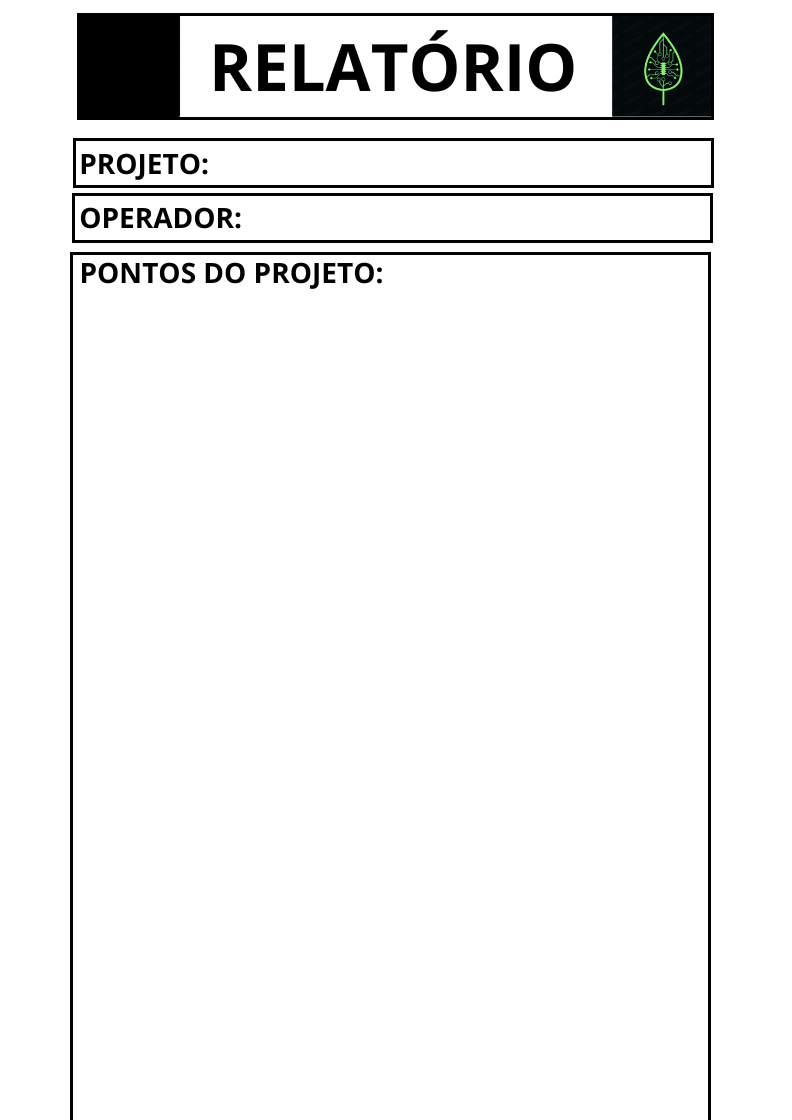
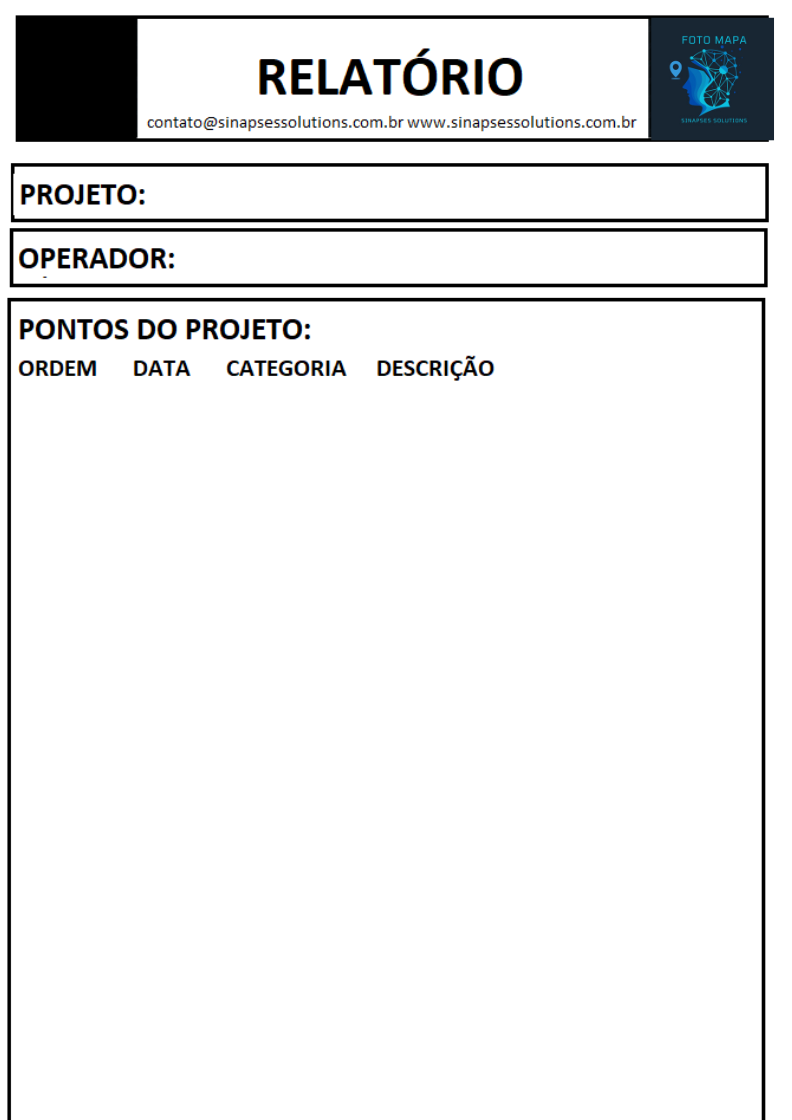
colocar pequeno e quase invisível na parte de baixo: Sinapses FotoMapa tire a opção do usuário escolher o projeto Adicionado contato na configurações Adicionar contato no relatório Adicionar cabeçalho no relatório Complemente a mensagem dizendo que pode levar mais tempo devido à quantidade de fotos

Changed region(s): [[0.0, 0.0, 1.0, 1.0]]

diff --git a/app/src/main/java/benicio/soluces/aplicativotestebencio/activity/AdicionarPontoActivity.java b/app/src/main/java/benicio/soluces/aplicativotestebencio/activity/AdicionarPontoActivity.java
@@ -1,6 +1,19 @@
 package benicio.soluces.aplicativotestebencio.activity;
 
 //salvar na pasta do programa
+
+import android.Manifest;
+import android.annotation.SuppressLint;
+import android.app.Dialog;
+import android.content.Intent;
+import android.content.pm.PackageManager;
+import android.location.Location;
+import android.os.Bundle;
+import android.view.MenuItem;
+import android.view.View;
+import android.widget.AdapterView;
+import android.widget.Toast;
+
 import androidx.annotation.NonNull;
 import androidx.annotation.Nullable;
 import androidx.appcompat.app.AlertDialog;
@@ -12,33 +25,11 @@ import androidx.recyclerview.widget.DividerItemDecoration;
 import androidx.recyclerview.widget.LinearLayoutManager;
 import androidx.recyclerview.widget.RecyclerView;
 
-import android.Manifest;
-import android.annotation.SuppressLint;
-import android.app.Dialog;
-import android.content.Context;
-import android.content.Intent;
-import android.content.SharedPreferences;
-import android.content.pm.PackageManager;
-import android.graphics.Bitmap;
-import android.graphics.BitmapFactory;
-import android.location.Location;
-import android.net.Uri;
-import android.os.Bundle;
-import android.provider.MediaStore;
-import android.util.Base64;
-import android.view.MenuItem;
-import android.view.View;
-import android.widget.AdapterView;
-import android.widget.ArrayAdapter;
-import android.widget.AutoCompleteTextView;
-import android.widget.Toast;
-
 import com.google.android.gms.location.FusedLocationProviderClient;
 import com.google.android.gms.location.LocationCallback;
 import com.google.android.gms.location.LocationRequest;
 import com.google.android.gms.location.LocationResult;
 import com.google.android.gms.location.LocationServices;
-import com.google.android.material.textfield.TextInputLayout;
 
 import java.text.SimpleDateFormat;
 import java.util.ArrayList;
@@ -47,18 +38,14 @@ import java.util.List;
 import java.util.Locale;
 
 import benicio.soluces.aplicativotestebencio.adapter.AdapterCategorias;
-import benicio.soluces.aplicativotestebencio.adapter.AdapterPontos;
+import benicio.soluces.aplicativotestebencio.adapter.AdapterFotos;
 import benicio.soluces.aplicativotestebencio.adapter.AdapterProjetos;
 import benicio.soluces.aplicativotestebencio.databinding.ActivityAdicionarPontoBinding;
-import benicio.soluces.aplicativotestebencio.databinding.ActivityMeusProjetosBinding;
 import benicio.soluces.aplicativotestebencio.databinding.LayoutRecyclerBinding;
 import benicio.soluces.aplicativotestebencio.model.CategoriaModel;
 import benicio.soluces.aplicativotestebencio.model.PontoModel;
-import benicio.soluces.aplicativotestebencio.R;
-import benicio.soluces.aplicativotestebencio.adapter.AdapterFotos;
 import benicio.soluces.aplicativotestebencio.model.ProjetoModel;
 import benicio.soluces.aplicativotestebencio.util.ImageUtils;
-import benicio.soluces.aplicativotestebencio.util.PontosUtils;
 import benicio.soluces.aplicativotestebencio.util.ProjetoUtils;
 import benicio.soluces.aplicativotestebencio.util.RecyclerItemClickListener;
 
@@ -82,12 +69,14 @@ public class AdicionarPontoActivity extends AppCompatActivity {
     private int positionPonto;
     private String idProjeto;
     private String nomeProjeto = "";
+    private String categoriaEscolhida = "";
+
     private ProjetoModel projetoModel;
 
     private RecyclerView recyclerCategoria;
 
-    private String categoriaEscolhida = "";
 
+    @SuppressLint("SetTextI18n")
     @Override
     protected void onCreate(Bundle savedInstanceState) {
         super.onCreate(savedInstanceState);
@@ -96,9 +85,9 @@ public class AdicionarPontoActivity extends AppCompatActivity {
 
         verProjetosDialog = criarDialogVerProjetos();
 
-        binding.escolherProjeto.setOnClickListener( view -> {
-            verProjetosDialog.show();
-        });
+//        binding.escolherProjeto.setOnClickListener( view -> {
+//            verProjetosDialog.show();
+//        });
 
         binding.prosseguirBtn.setOnClickListener( view -> {
             binding.layoutFoto.setVisibility(View.GONE);
@@ -117,7 +106,10 @@ public class AdicionarPontoActivity extends AppCompatActivity {
             idProjeto = b.getString("idProjeto");
             projetoModel = ProjetoUtils.getProjetoModel(idProjeto, getApplicationContext());
             nomeProjeto = projetoModel.getNomeProjeto();
-            binding.nomeProjetoText.setText(nomeProjeto);
+            binding.nomeProjetoText.setText(
+                    "Categoria do Ponto: " + categoriaEscolhida
+                    + "\n" +
+                    "Projeto selecionado: " + nomeProjeto);
         }
 
         if ( modoExibicao ){
@@ -126,7 +118,6 @@ public class AdicionarPontoActivity extends AppCompatActivity {
 
             binding.criarPontoBtn.setVisibility(View.GONE);
             binding.cameraBtn.setVisibility(View.GONE);
-            binding.escolherProjeto.setVisibility(View.GONE);
             binding.nomeProjetoText.setVisibility(View.GONE);
             binding.prosseguirBtn.setVisibility(View.GONE);
             binding.layoutCategoria.setVisibility(View.GONE);
@@ -137,9 +128,7 @@ public class AdicionarPontoActivity extends AppCompatActivity {
             binding.compartilharBtn.setVisibility(View.VISIBLE);
 
             binding.obsField.getEditText().setEnabled(false);
-            binding.menu.getEditText().setEnabled(false);
             binding.obsField.getEditText().setText(pontoModel.getObs());
-            binding.menu.getEditText().setText(pontoModel.getCategoria());
 
             listaDeFotos.addAll(pontoModel.getImages());
             adapterFotos.notifyDataSetChanged();
@@ -151,7 +140,7 @@ public class AdicionarPontoActivity extends AppCompatActivity {
         getSupportActionBar().setDisplayShowHomeEnabled(true);
 
         if ( !modoExibicao ){
-            configurarMenuCategoria();
+//            configurarMenuCategoria();
             getSupportActionBar().setTitle("Adicionar ponto");
         }
 
@@ -192,10 +181,9 @@ public class AdicionarPontoActivity extends AppCompatActivity {
         });
 
         binding.criarPontoBtn.setOnClickListener( view -> {
-            String obs, categoria;
+            String obs;
 
             obs = binding.obsField.getEditText().getText().toString().isEmpty() ? "Sem observações" : binding.obsField.getEditText().getText().toString();
-            categoria = binding.menu.getEditText().getText().toString().isEmpty() ? "outros" : binding.menu.getEditText().getText().toString();
 
             if ( !nomeProjeto.isEmpty() ){
 
@@ -215,7 +203,7 @@ public class AdicionarPontoActivity extends AppCompatActivity {
 
                 assert projetoModel != null;
                 projetoModel.getListaDePontos().add(
-                        new PontoModel( data,listaDeFotos, categoria, obs, operador, latitude, longitude)
+                        new PontoModel( data,listaDeFotos, categoriaEscolhida, obs, operador, latitude, longitude)
                 );
 
                 listaAntiga.remove(pos);
@@ -254,12 +242,17 @@ public class AdicionarPontoActivity extends AppCompatActivity {
                 getApplicationContext(),
                 recyclerCategoria,
                 new RecyclerItemClickListener.OnItemClickListener() {
+                    @SuppressLint("SetTextI18n")
                     @Override
                     public void onItemClick(View view, int position) {
                         categoriaEscolhida = lista.get(position).getCategoria();
                         binding.layoutCategoria.setVisibility(View.GONE);
                         binding.layoutDados.setVisibility(View.VISIBLE);
-                        binding.menu.getEditText().setText(categoriaEscolhida);
+
+                        binding.nomeProjetoText.setText(
+                                "Categoria do Ponto: " + categoriaEscolhida
+                                        + "\n" +
+                                        "Projeto selecionado: " + nomeProjeto);
                     }
 
                     @Override
@@ -303,10 +296,16 @@ public class AdicionarPontoActivity extends AppCompatActivity {
                 getApplicationContext(),
                 recylerProjetos,
                 new RecyclerItemClickListener.OnItemClickListener() {
+                    @SuppressLint("SetTextI18n")
                     @Override
                     public void onItemClick(View view, int position) {
                         nomeProjeto = ProjetoUtils.loadList(getApplicationContext()).get(position).getNomeProjeto();
-                        binding.nomeProjetoText.setText(nomeProjeto);
+
+                        binding.nomeProjetoText.setText(
+                                "Categoria do Ponto: " + categoriaEscolhida
+                                + "\n" +
+                                "Projeto selecionado: " + nomeProjeto);
+
                         verProjetosDialog.dismiss();
                     }
 
@@ -332,17 +331,17 @@ public class AdicionarPontoActivity extends AppCompatActivity {
         fusedLocationClient.requestLocationUpdates(locationRequest, locationCallback, null);
     }
 
-    private void configurarMenuCategoria (){
-        String[] items = {"poste", "árvore", "área de roçada", "subestação de energia", "erosão", "outros", "ferrugem"};
-
-        ArrayAdapter<String> adapter = new ArrayAdapter<>(this, android.R.layout.simple_dropdown_item_1line, items);
-
-        TextInputLayout categoriaMenu = binding.menu;
-
-        AutoCompleteTextView autoCompleteTextView = categoriaMenu.findViewById(R.id.auto_complete);
-
-        autoCompleteTextView.setAdapter(adapter);
-    }
+//    private void configurarMenuCategoria (){
+//        String[] items = {"poste", "árvore", "área de roçada", "subestação de energia", "erosão", "outros", "ferrugem"};
+//
+//        ArrayAdapter<String> adapter = new ArrayAdapter<>(this, android.R.layout.simple_dropdown_item_1line, items);
+//
+//        TextInputLayout categoriaMenu = binding.menu;
+//
+//        AutoCompleteTextView autoCompleteTextView = categoriaMenu.findViewById(R.id.auto_complete);
+//
+//        autoCompleteTextView.setAdapter(adapter);
+//    }
 
     @SuppressLint("NotifyDataSetChanged")
     @Override

diff --git a/app/src/main/java/benicio/soluces/aplicativotestebencio/model/ProjetoModel.java b/app/src/main/java/benicio/soluces/aplicativotestebencio/model/ProjetoModel.java
@@ -103,8 +103,9 @@ public class ProjetoModel {
         title.setTypeface(Typeface.defaultFromStyle(Typeface.NORMAL));
         title.setColor(ContextCompat.getColor(a, R.color.black));
 
-        canvas.drawText(this.nomeProjeto, 212, 173, title);
-        canvas.drawText(preferences.getString("operador", "Nome não informado."), 246, 226, title);
+        canvas.drawText(this.nomeProjeto, 150, 200, title);
+        canvas.drawText(preferences.getString("operador", "Nome não informado."), 180, 269, title);
+
 
         int espacamentoEntrePontos = 25;
         int espacamentoEntreLinhas = 15;
@@ -114,8 +115,8 @@ public class ProjetoModel {
 
         title.setTextSize(10);
 
-        int startX = 94;
-        int startY = 303;
+        int startX = 22;
+        int startY = 407;
 
         for ( PontoModel ponto : this.listaDePontos){
             canvas.drawText(String.format("(%s) - %s - %s", index, ponto.getData(), ponto.getCategoria()), startX, startY, title);
